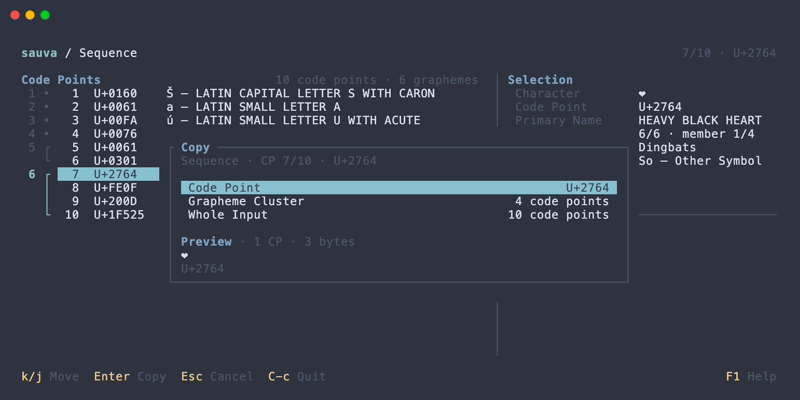
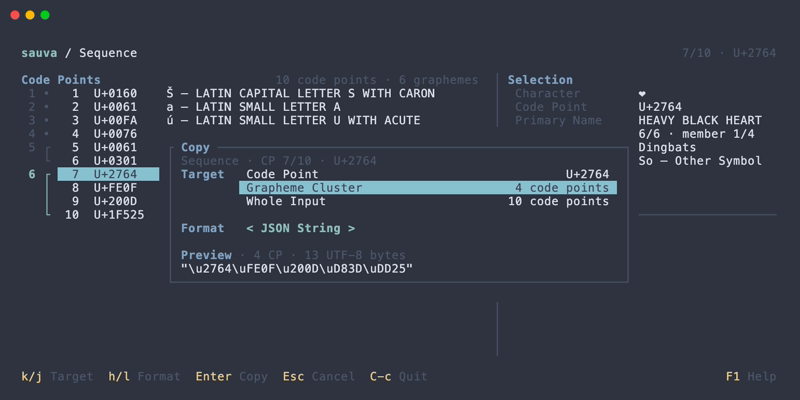
Refresh sequence recordings with copy format selection

Changed region(s): [[0.2188, 0.42, 0.5312, 0.69], [0.625, 0.42, 0.7812, 0.57], [0.0625, 0.93, 0.5312, 0.96]]

diff --git a/docs/src/features/copying.md b/docs/src/features/copying.md
@@ -13,6 +13,8 @@ The copy dialog copies a character or string as text, a quoted string literal, o
 
 A grapheme cluster includes members outside the visible list. Normalization copies use the selected result.
 
+![Sequence copy dialog](https://raw.githubusercontent.com/lusingander/sauva/refs/heads/master/img/sequence-copy.png)
+
 ## Formats
 
 The following examples use `A` + U+0301 + `😀`:
